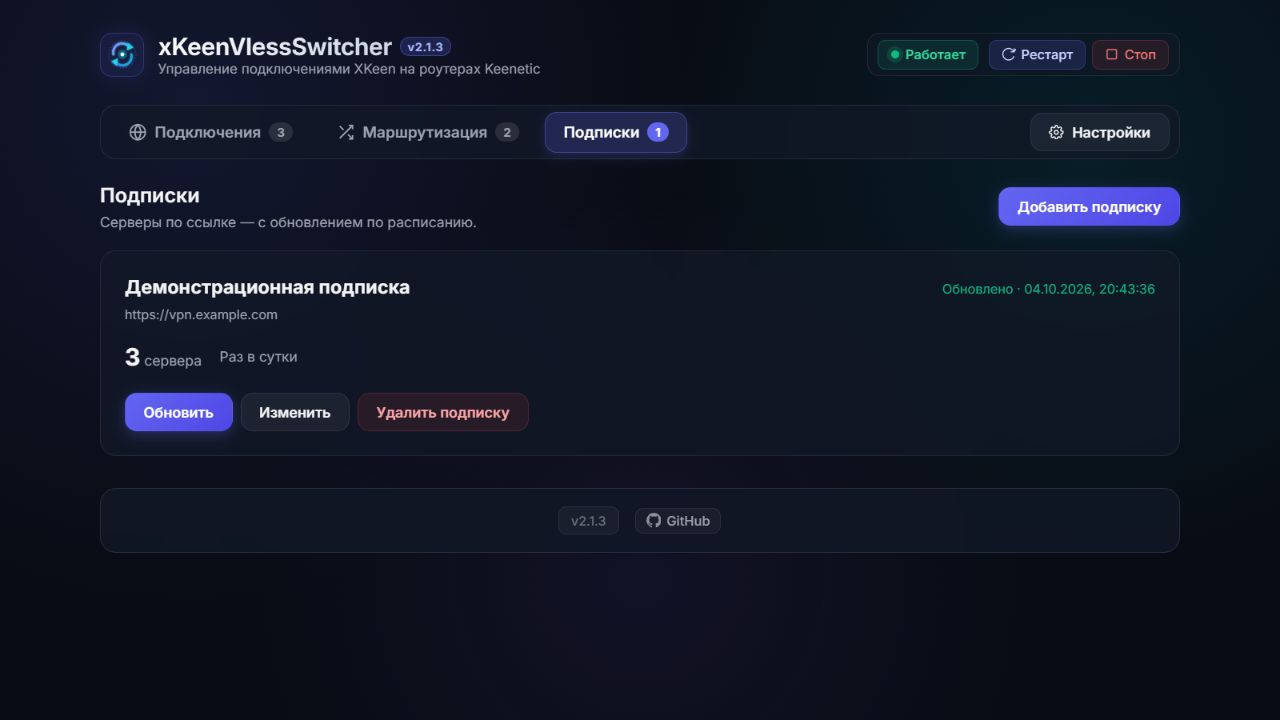
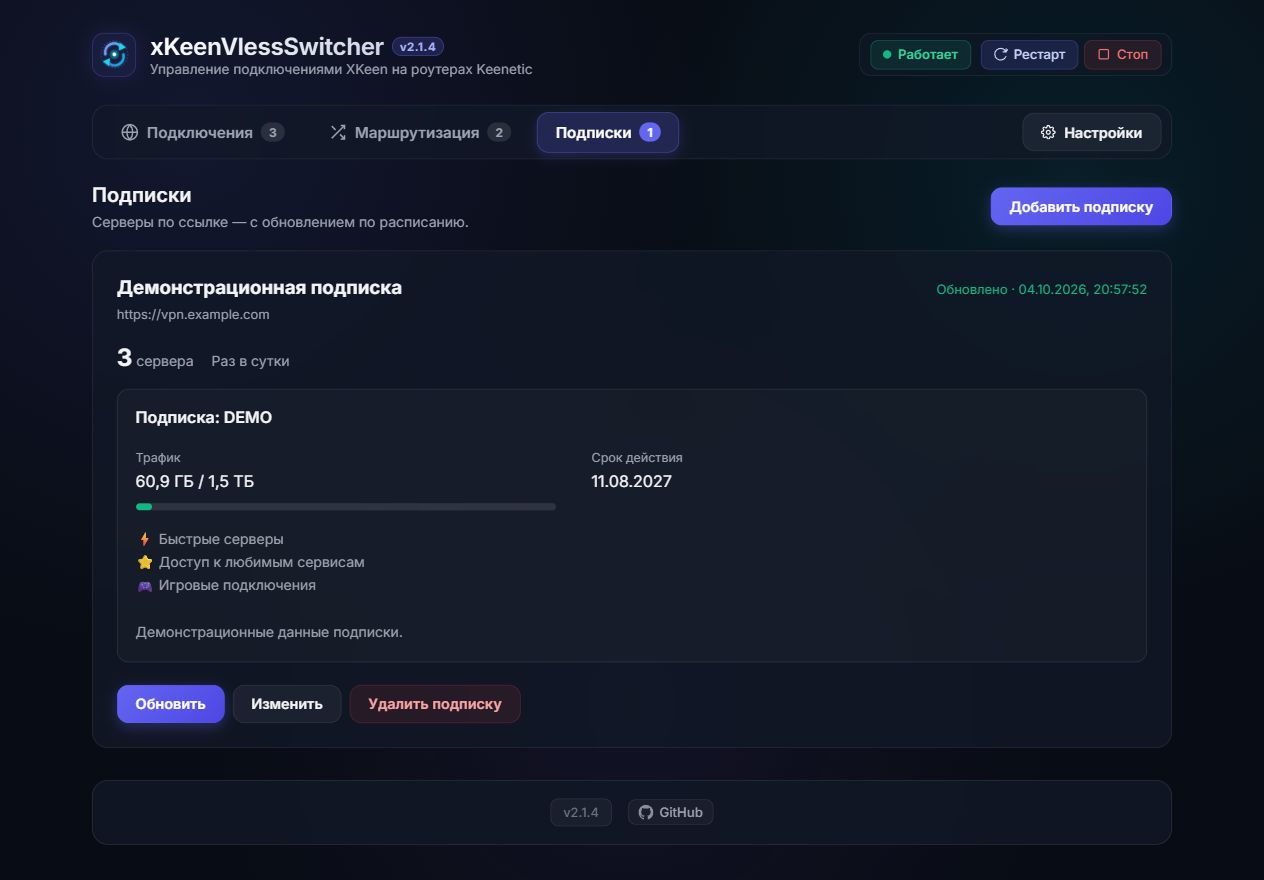
Show subscription traffic, expiry and provider announcements; align metrics (v2.1.4)

diff --git a/lib/subscriptions.js b/lib/subscriptions.js
@@ -93,7 +93,8 @@ async function downloadSubscription(value, options = {}) {
             if (encoding && encoding !== 'identity' && !decode) throw new Error();
             if (decode) body = decode(body, { maxOutputLength: MAX_BYTES });
             if (body.length > MAX_BYTES) throw new Error();
-            finish(null, body.toString('utf8'));
+            const text = body.toString('utf8');
+            finish(null, options.includeMetadata ? { text, info: subscriptionInfo(res.headers) } : text);
           } catch { finish(new Error('Ответ подписки повреждён или превышает 8 МБ.')); }
         });
       });
@@ -108,6 +109,29 @@ async function downloadSubscription(value, options = {}) {
       timer = setTimeout(() => reject(new Error('Сервер подписки не ответил вовремя.')), options.timeout || 20000);
     })]);
   } finally { clearTimeout(timer); }
+}
+
+function subscriptionInfo(headers = {}) {
+  const info = {};
+  for (const [header, field, limit] of [['profile-title', 'title', 256], ['announce', 'description', 4096]]) {
+    let value = headers[header];
+    if (typeof value !== 'string') continue;
+    if (value.startsWith('base64:')) {
+      const encoded = value.slice(7).trim();
+      if (!/^[A-Za-z0-9+/_-]*={0,2}$/.test(encoded) || encoded.length % 4 === 1) continue;
+      value = Buffer.from(encoded, 'base64').toString('utf8');
+    }
+    value = value.replace(/[\u0000-\u0008\u000b\u000c\u000e-\u001f\u007f]/g, '').trim();
+    if (value) info[field] = value.slice(0, limit);
+  }
+  for (const entry of String(headers['subscription-userinfo'] || '').split(';')) {
+    const match = entry.trim().match(/^(upload|download|total|expire)\s*=\s*(\d+)$/i);
+    if (!match) continue;
+    const number = Number(match[2]);
+    if (!Number.isSafeInteger(number) || (match[1].toLowerCase() === 'expire' && number > 253402300799)) continue;
+    info[match[1].toLowerCase()] = number;
+  }
+  return info;
 }
 
 function sorted(value) {
@@ -300,7 +324,7 @@ function reconcile(data, id, parsed, options = {}) {
   return stats;
 }
 
-function createSubscriptionManager({ loadData, saveData, parseVlessUrl, fetchText = downloadSubscription }) {
+function createSubscriptionManager({ loadData, saveData, parseVlessUrl, fetchText = url => downloadSubscription(url, { includeMetadata: true }) }) {
   const running = new Set();
   let timer;
   let ticking = false;
@@ -325,7 +349,8 @@ function createSubscriptionManager({ loadData, saveData, parseVlessUrl, fetchTex
     const before = find(loadData(), id);
     running.add(id);
     try {
-      const parsed = parseSubscription(await fetchText(before.url), parseVlessUrl);
+      const downloaded = await fetchText(before.url);
+      const parsed = parseSubscription(typeof downloaded === 'string' ? downloaded : downloaded.text, parseVlessUrl);
       const data = loadData();
       const current = find(data, id);
       if (current.url !== before.url || current.updatedAt !== before.updatedAt) throw new Error('Настройки изменились во время загрузки. Повторите обновление.');
@@ -334,6 +359,7 @@ function createSubscriptionManager({ loadData, saveData, parseVlessUrl, fetchTex
       current.excluded = [];
       delete current.adoptExistingOnly;
       const stats = reconcile(data, id, parsed);
+      current.info = typeof downloaded === 'string' ? {} : downloaded.info || {};
       write(data);
       return stats;
     } catch (err) {
@@ -377,6 +403,7 @@ function createSubscriptionManager({ loadData, saveData, parseVlessUrl, fetchTex
       const sub = find(data, id);
       const fields = settings(body, data, sub);
       if (data.subscriptions.some(x => x.id !== id && x.url === fields.url)) throw new Error('Эта ссылка уже добавлена.');
+      if (sub.url !== fields.url) delete sub.info;
       Object.assign(sub, fields, { updatedAt: crypto.randomUUID() });
       write(data);
     },
@@ -397,4 +424,4 @@ function createSubscriptionManager({ loadData, saveData, parseVlessUrl, fetchTex
 }
 
 module.exports = { createSubscriptionManager, parseSubscription, parseHysteria2, connectionKey, connectionIdentity, reconcile,
-  subscriptionUrl, downloadSubscription, isPublicAddress, publicSubscription };
+  subscriptionUrl, downloadSubscription, subscriptionInfo, isPublicAddress, publicSubscription };

diff --git a/public/subscriptions.js b/public/subscriptions.js
@@ -18,6 +18,31 @@ function subscriptionUpdatedLabel(value) {
   }) : '';
 }
 
+function subscriptionBytes(value) {
+  if (!Number.isFinite(value) || value < 0) return '—';
+  const units = ['Б', 'КБ', 'МБ', 'ГБ', 'ТБ', 'ПБ'];
+  const unit = value > 0 ? Math.min(Math.floor(Math.log(value) / Math.log(1024)), units.length - 1) : 0;
+  return (value / 1024 ** unit).toLocaleString('ru-RU', { maximumFractionDigits: 1 }) + ' ' + units[unit];
+}
+
+function subscriptionInfoHtml(info = {}) {
+  const used = Number.isFinite(info.upload) && Number.isFinite(info.download) ? info.upload + info.download : null;
+  const total = Number.isFinite(info.total) ? info.total : null;
+  const traffic = used !== null || total !== null;
+  const percent = used !== null && total > 0 ? Math.max(0, Math.min(100, used / total * 100)) : null;
+  const expiry = info.expire === 0 ? 'Без срока действия' : info.expire > 0 ? new Date(info.expire * 1000).toLocaleDateString('ru-RU') : '';
+  if (!traffic && !expiry && !info.title && !info.description) return '';
+  return `<div class="subscription-info">
+    ${info.title ? `<p class="subscription-provider-title">${escapeHtml(info.title)}</p>` : ''}
+    <div class="subscription-details">
+      ${traffic ? `<div class="subscription-traffic"><span class="help-text">Трафик</span><div>${used === null ? 'Расход не указан' : subscriptionBytes(used)} / ${total === 0 ? 'Безлимит' : total === null ? 'Лимит не указан' : subscriptionBytes(total)}</div>
+        ${percent !== null ? `<div class="subscription-progress" role="progressbar" aria-label="Использовано трафика" aria-valuemin="0" aria-valuemax="100" aria-valuenow="${Math.round(percent)}"><span style="width:${percent}%"></span></div>` : ''}</div>` : ''}
+      ${expiry ? `<div><span class="help-text">${info.expire > 0 && info.expire * 1000 <= Date.now() ? 'Истекла' : 'Срок действия'}</span><div>${expiry}</div></div>` : ''}
+    </div>
+    ${info.description ? `<p class="subscription-description">${escapeHtml(info.description)}</p>` : ''}
+  </div>`;
+}
+
 function renderSubscriptions() {
   const list = appData.subscriptions || [];
   document.getElementById('subscriptions-count-badge').textContent = list.length;
@@ -32,6 +57,7 @@ function renderSubscriptions() {
       <div class="subscription-heading"><h3>${escapeHtml(sub.name)}</h3><span class="subscription-status ${sub.lastError ? 'subscription-error' : ''}">${status}</span></div>
       <p class="subscription-source">${escapeHtml(sub.source)}</p>
       <div class="subscription-metrics"><span><strong>${sub.count || 0}</strong> ${serverNoun(sub.count || 0)}</span><span>${escapeHtml(subscriptionIntervals[sub.intervalHours] || 'Вручную')}</span></div>
+      ${subscriptionInfoHtml(sub.info)}
       ${stats?.protected ? `<p class="help-text">Сохранено отсутствующих серверов: ${stats.protected}. Они используются или изменены вручную — проверьте их во вкладке «Подключения».</p>` : ''}
       ${stats?.unsupported?.length ? `<p class="help-text">Пропущены протоколы: ${escapeHtml(stats.unsupported.join(', '))}. Отсутствующие серверы сохранены.</p>` : ''}
       ${sub.lastError ? `<p class="subscription-error" role="alert">${escapeHtml(sub.lastError)}</p>` : ''}

diff --git a/test/subscriptions.test.js b/test/subscriptions.test.js
@@ -323,3 +323,37 @@ test('HTTP API redacts URL, deletion does not exclude servers, and backup restor
     assert.equal(loadData().subscriptions[0].excluded.length, 0);
   } finally { server.closeAllConnections(); await new Promise(resolve => server.close(resolve)); }
 });
+
+test('provider metadata decodes UTF-8 and validates usage without exposing account URLs', () => {
+  const { subscriptionInfo } = require('../lib/subscriptions');
+  const info = subscriptionInfo({ 'profile-title': 'base64:' + Buffer.from('Тестовая подписка').toString('base64'), announce: 'base64:' + Buffer.from('Описание\nВторая строка').toString('base64'), 'subscription-userinfo': 'upload=10; download=20; total=0; expire=1790951622', 'profile-web-page-url': 'https://example.com/secret' });
+  assert.deepEqual(info, { title: 'Тестовая подписка', description: 'Описание\nВторая строка', upload: 10, download: 20, total: 0, expire: 1790951622 });
+  assert.deepEqual(subscriptionInfo({ 'subscription-userinfo': 'upload=-1; download=NaN; total=9999999999999999999; expire=999999999999', announce: 'base64:!!!' }), {});
+});
+test('refresh replaces metadata, preserves it on failure, and clears it on URL change', async () => {
+  let response = { text: vless(), info: { total: 100, download: 10, upload: 0 } };
+  const h = harness(async () => { if (response instanceof Error) throw response; return response; });
+  await h.manager.refresh('s');
+  assert.equal(h.get().subscriptions[0].info.total, 100);
+  response = new Error('Network error');
+  await assert.rejects(h.manager.refresh('s'));
+  assert.equal(h.get().subscriptions[0].info.total, 100);
+  response = { text: vless(), info: {} };
+  await h.manager.refresh('s');
+  assert.deepEqual(h.get().subscriptions[0].info, {});
+  h.manager.edit('s', { url: 'https://example.com/new' });
+  assert.equal(h.get().subscriptions[0].info, undefined);
+});
+test('download returns only final response metadata and keeps the string API compatible', async () => {
+  const server = http.createServer((req, res) => {
+    if (req.url === '/redirect') { res.writeHead(302, { location: '/feed', 'profile-title': 'Wrong' }); res.end(); }
+    else { res.writeHead(200, { 'profile-title': 'Demo', 'subscription-userinfo': 'upload=0; download=20; total=100; expire=0' }); res.end(vless()); }
+  });
+  await new Promise(resolve => server.listen(0, '127.0.0.1', resolve));
+  try {
+    const url = 'http://127.0.0.1:' + server.address().port + '/redirect';
+    const result = await downloadSubscription(url, { allowPrivate: true, includeMetadata: true });
+    assert.equal(result.text, vless()); assert.equal(result.info.title, 'Demo'); assert.equal(result.info.download, 20);
+    assert.equal(await downloadSubscription(url, { allowPrivate: true }), vless());
+  } finally { await new Promise(resolve => server.close(resolve)); }
+});

diff --git a/public/style.css b/public/style.css
@@ -38,7 +38,7 @@
 .subscription-heading h3 { overflow-wrap: anywhere; }
 .subscription-status { color: var(--accent-green); font-size: 13px; }
 .subscription-source { color: var(--text-muted); margin: 8px 0 20px; overflow-wrap: anywhere; font-size: 13px; }
-.subscription-metrics { display: flex; flex-wrap: wrap; align-items: center; gap: 18px; margin-bottom: 16px; color: var(--text-muted); font-size: 14px; }
+.subscription-metrics { display: flex; flex-wrap: wrap; align-items: baseline; gap: 18px; margin-bottom: 16px; color: var(--text-muted); font-size: 14px; }
 .subscription-metrics strong { color: var(--text-main); font-size: 24px; }
 .subscription-actions { display: flex; flex-wrap: wrap; gap: 8px; margin-top: 22px; }
 .subscription-error { color: var(--accent-danger); margin-top: 12px; overflow-wrap: anywhere; font-size: 13px; }
@@ -3481,3 +3481,12 @@ input[type="text"]:focus, input[type="number"]:focus, input[type="url"]:focus, i
 }
 
 
+
+.subscription-metrics { align-items: baseline; }
+.subscription-info { padding: 18px; background: rgba(255,255,255,.025); border: 1px solid var(--border-color, rgba(255,255,255,.1)); border-radius: 12px; margin-top: 18px; }
+.subscription-provider-title { font-weight: 600; margin: 0 0 14px; overflow-wrap: anywhere; }
+.subscription-details { display: flex; flex-wrap: wrap; gap: 18px 36px; line-height: 1.7; }
+.subscription-traffic { flex: 1 1 220px; max-width: 420px; }
+.subscription-progress { height: 7px; border-radius: 8px; background: rgba(255,255,255,.1); overflow: hidden; margin-top: 8px; }
+.subscription-progress span { display: block; height: 100%; background: var(--accent-green); border-radius: inherit; }
+.subscription-description { white-space: pre-wrap; overflow-wrap: anywhere; color: var(--text-muted); font-size: 14px; line-height: 1.65; margin: 18px 0 0; }

diff --git a/test/frontend.test.js b/test/frontend.test.js
@@ -65,3 +65,15 @@ test('QR export retains Hysteria2 auth and VLESS TLS certificate pin, XHTTP sett
   assert.equal(v.searchParams.get('path'), '/test');
   assert.equal(v.hostname, '[2001:db8::1]');
 });
+
+test('subscription info handles unknown and unlimited traffic, expiry, clamps progress and escapes announcements', () => {
+  assert.equal(scope.subscriptionBytes(60.9 * 1024 ** 3), '60,9 ГБ');
+  assert.equal(scope.subscriptionBytes(0), '0 Б');
+  assert.equal(scope.subscriptionInfoHtml({}), '');
+  const html = scope.subscriptionInfoHtml({ upload: 0, download: 200, total: 100, expire: 1, title: '<img src=x>', description: '<script>alert(1)</script>' });
+  assert.match(html, /aria-valuenow="100"/); assert.match(html, /Истекла/);
+  assert.ok(!html.includes('<script>')); assert.ok(!html.includes('<img'));
+  assert.match(scope.subscriptionInfoHtml({ total: 0, expire: 0 }), /Безлимит/);
+  assert.match(scope.subscriptionInfoHtml({ total: 0 }), /Расход не указан/);
+  assert.match(scope.subscriptionInfoHtml({ upload: 0, download: 0 }), /Лимит не указан/);
+});

diff --git a/public/index.html b/public/index.html
@@ -9,7 +9,7 @@
   <link rel="preconnect" href="https://fonts.googleapis.com">
   <link rel="preconnect" href="https://fonts.gstatic.com" crossorigin>
   <link href="https://fonts.googleapis.com/css2?family=Inter:wght@300;400;500;600;700&family=JetBrains+Mono:wght@400;500;600&display=swap" rel="stylesheet">
-  <link rel="stylesheet" href="style.css?v=2.1.3">
+  <link rel="stylesheet" href="style.css?v=2.1.4">
 </head>
 <body>
   <div class="app-background"></div>
@@ -1099,7 +1099,7 @@
   <div id="toast-container"></div>
 
   <script src="qrcode.min.js"></script>
-  <script src="app.js?v=2.1.3"></script>
-  <script src="subscriptions.js?v=2.1.3"></script>
+  <script src="app.js?v=2.1.4"></script>
+  <script src="subscriptions.js?v=2.1.4"></script>
 </body>
 </html>

diff --git a/README.md b/README.md
@@ -1,6 +1,6 @@
 # 🚀 xKeenVlessSwitcher
 
-**xKeenVlessSwitcher** — веб-панель для XKeen с импортом подписок по ссылке, обновлением серверов и настройкой маршрутизации. Основана на [sergey1900/XKeenSwitcher](https://github.com/sergey1900/XKeenSwitcher). Версия 2.1.3.
+**xKeenVlessSwitcher** — веб-панель для XKeen с импортом подписок по ссылке, обновлением серверов и настройкой маршрутизации. Основана на [sergey1900/XKeenSwitcher](https://github.com/sergey1900/XKeenSwitcher). Версия 2.1.4.
 
 Быстрая установка в Entware:
 
@@ -31,6 +31,8 @@ curl -fsSL https://raw.githubusercontent.com/Jack13PythonLearn/xKeenVlessSwitche
 Поддерживаются обычный текст и Base64 со ссылками `vless://`, `hy2://` и `hysteria2://`. VLESS: TCP/RAW, gRPC, WebSocket и базовый XHTTP; TLS/Reality, ALPN и закрепление сертификата через `pcs`. Для Hysteria2 требуется сборка Xray с поддержкой этого протокола. Его доступность проверяется через временный туннель Xray, поскольку TCP-проверка не подходит для UDP.
 
 Список обновляется вручную или раз в 1, 6, 12, 24, 72 либо 168 часов, пока панель запущена. При каждом обновлении загружаются все поддерживаемые серверы провайдера, а вкладка **Подключения** обновляется автоматически. Дата и время последней успешной загрузки показаны рядом со статусом **Обновлено**. Проверка доступности запускается отдельно.
+
+Карточка подписки показывает расход и лимит трафика, срок действия, название и объявление провайдера из HTTP-заголовков `subscription-userinfo`, `profile-title` и `announce` (включая Base64). Данные обновляются вместе со списком серверов; отсутствующие сведения не выдумываются. Объявления отображаются как обычный текст. В репозитории и на демонстрационных скриншотах используются только искусственные данные.
 
 Обновление не переключает активный сервер и не перезапускает XKeen. Для существующих серверов сохраняются ID, пользовательские названия, маршрутизация и настройки резерва. Изменение SNI обновляет однозначно сопоставленный профиль без дублей; несколько вариантов SNI в одной подписке остаются отдельными подключениями. При смене адреса или ключей создаётся новое подключение; отсутствующий активный, резервный или изменённый вручную сервер остаётся с пометкой для проверки.
 
